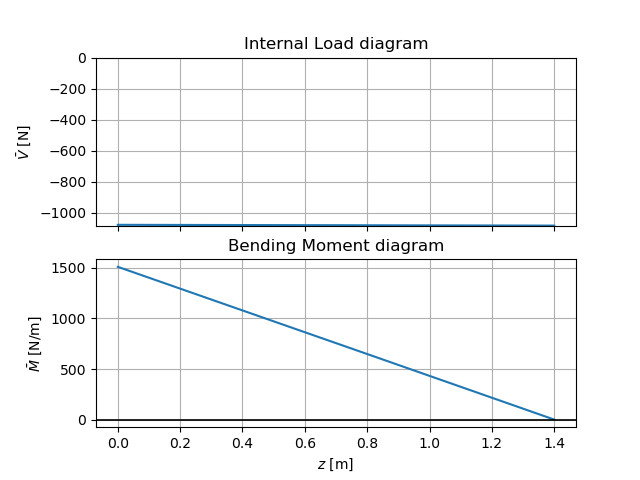
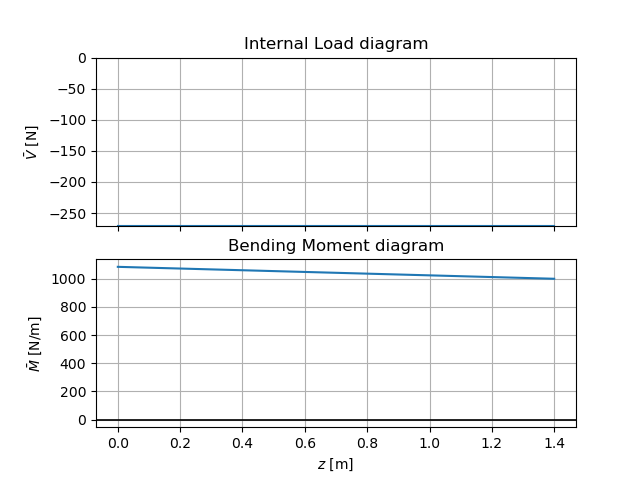
Structures Update

diff --git a/Structures_Final/STRUC_Stiffness.py b/Structures_Final/STRUC_Stiffness.py
@@ -9,14 +9,13 @@ Beam Loading and Stresses (for Ehang concept)
 from math import *
 import numpy as np
 from matplotlib import pyplot as plt
-from STRUC_Classes import Lift, Material
-from STRUC_Design import Beam
 from STRUC_Inputs import *
 
+# Input choices
 use_beam = beam2
 use_material = aluminium
-use_liftcase = Gust
-SF = 1.25
+use_loadcase = Gust
+
 
 def axes(beam):
     dx, dy, dz = 0.005, 0.005, 0.01
@@ -27,38 +26,39 @@ def axes(beam):
 
 
 # Internal Load Function along z-axis
-def v_beam(beam, lift):
-    _, _, z = axes(beam)
-    Vx = beam.weight + beam.weight_engine - lift.L_x / n - beam.weight * z / beam.length
-    return Vx
+def v_beam(beam, load):
+    x, y, z = axes(beam)
+    Vy = beam.weight + beam.weight_engine - load.L / n - beam.weight * z / beam.length
+    Vx = -load.D*np.ones(np.shape(z))
+    return Vx, Vy
 
 
 # Moment Function along z-axis
-def m_beam(beam, lift):
-    x, _, z = axes(beam)
-    M_a = (beam.weight / 2 + beam.weight_engine - lift.L_x / n) * beam.length
-    Mz = (beam.weight + beam.weight_engine - lift.L_x / n) * z - beam.weight * z ** 2 / (2 * beam.length) - M_a
-    return Mz
+def m_beam(beam, load):
+    x, y, z = axes(beam)
+    M_ax = (beam.weight / 2 + beam.weight_engine - load.L / n) * beam.length
+    Mx = (beam.weight + beam.weight_engine - load.L / n) * z - beam.weight * z ** 2 / (2 * beam.length) - M_ax
+    M_ay = beam.length * load.D*beam.radius * 2 * beam.length
+    My = M_ay - M_ay * z/beam.length + load.T
+    return Mx, My
 
 
 # Bending stress along x- and z-axis
-def stress_beam(beam, lift):
-    x, _, z = axes(beam)
-    sigma_x_L_z = lift.L_z / (2 * pi * beam.radius * beam.thickness)
-    sigma_x_bend = np.transpose([(m_beam(beam, lift) / beam.Ixx)]) * [x]
-    sigma_x = np.add(sigma_x_bend, sigma_x_L_z * np.ones(np.shape(sigma_x_bend)))
-    print(sigma_x_L_z)
-    print(sigma_x[0])
-    return sigma_x
+def stress_beam(beam, load):
+    x, y, z = axes(beam)
+    sigma_L_z = load.P / (2 * pi * beam.radius * beam.thickness)
+    sigma_bend_y = np.transpose([(m_beam(beam, load)[1] / beam.Ixx)]) * [x]
+    sigma_bend_x = np.transpose([(m_beam(beam,load)[0]) / beam.Iyy]) * [y]
+    sigma_z_y = np.add(sigma_bend_y, sigma_L_z * np.ones(np.shape(sigma_bend_y)))
+    sigma_z_x = np.add(sigma_bend_x, sigma_L_z * np.ones(np.shape(sigma_bend_x)))
+    return sigma_z_x, sigma_z_y
 
 
-def shear_beam(beam, lift):
-    x, _, z = axes(beam)
-    Vz = v_beam(beam, lift)
-    shear = np.transpose([Vz]) / (-pi * beam.thickness * beam.radius ** 4) * [x]
+def shear_beam(beam, load):
+    x, y, z = axes(beam)
+    Vz = v_beam(beam, load)[0]
+    shear = np.transpose([Vz]) / (-pi * beam.thickness * beam.radius ** 4) * [y]
     return shear
-
-
 
 
 def weight_beam(material, beam):
@@ -70,37 +70,43 @@ print(weight_beam(use_material, use_beam))
 
 x, y, z = axes(use_beam)
 
+V_x, V_y = v_beam(use_beam, use_loadcase)
+M_x, M_y = m_beam(use_beam, use_loadcase)
+sigma_zx, sigma_zy = stress_beam(use_beam, use_loadcase)
+use_V = V_x
+use_M = M_y
+use_sigma_z = sigma_zx
+
 
 # Matplotlib
 fig1, (ax1, ax2) = plt.subplots(2, 1, sharex=True)
 plt.gcf().subplots_adjust(left=0.15)
-ax1.plot(z, v_beam(use_beam, use_liftcase))
-ax1.set_ylim(np.min(v_beam(use_beam, use_liftcase)), 0)
+ax1.plot(z, use_V)
+ax1.set_ylim(np.min(use_V), 0)
 ax1.set_title("Internal Load diagram")
-ax1.set(ylabel = r'$\bar{V}$ [N]')
+ax1.set(ylabel=r'$\bar{V}$ [N]')
 ax1.grid(True)
 ax1.axhline(0, color='black', lw=1.2)
-ax2.plot(z, m_beam(use_beam, use_liftcase))
+ax2.plot(z, use_M)
 ax2.set_title("Bending Moment diagram")
-ax2.set(xlabel = r'$z$ [m]', ylabel = r'$\bar{M}$ [N/m]')
+ax2.set(xlabel=r'$z$ [m]', ylabel=r'$\bar{M}$ [N/m]')
 ax2.grid(True)
 ax2.axhline(0, color='black', lw=1.2)
 fig1.savefig("Loading_diagrams")
 
-
 fig2, (ax3, ax4) = plt.subplots(1, 2, sharey=True)
-ax3.plot(stress_beam(use_beam, use_liftcase)[0], x)
-ax3.plot(np.ones(np.size(x))*use_material.sigma_t, x, '-.r')
-ax3.plot(-np.ones(np.size(x))*use_material.sigma_t, x, '-.r', label='line1')
+ax3.plot(use_sigma_z[0], x)
+ax3.plot(np.ones(np.size(x)) * use_material.sigma_t, x, '-.r')
+ax3.plot(-np.ones(np.size(x)) * use_material.sigma_t, x, '-.r', label='line1')
 ax3.set_title("Bending stress")
-ax3.set(xlabel = r'$\bar{\sigma}_x$ [Pa]', ylabel = "x [m]")
+ax3.set(xlabel=r'$\bar{\sigma}_x$ [Pa]', ylabel="x [m]")
 ax3.grid(True)
 ax3.axhline(0, color='black', lw=1.2)
-ax4.plot(shear_beam(use_beam, use_liftcase)[0], x)
-ax4.plot(np.ones(np.size(x))*use_material.tau/1.25, x, '-.r')
-ax4.plot(-np.ones(np.size(x))*use_material.tau/1.25, x, '-.r')
+ax4.plot(shear_beam(use_beam, use_loadcase)[0], x)
+ax4.plot(np.ones(np.size(x)) * use_material.tau / 1.25, x, '-.r')
+ax4.plot(-np.ones(np.size(x)) * use_material.tau / 1.25, x, '-.r')
 ax4.set_title("Shear stress")
-ax4.set(xlabel = r'$\bar{\tau}$ [Pa]')
+ax4.set(xlabel=r'$\bar{\tau}$ [Pa]')
 ax4.grid(True)
 ax4.axhline(0, color='black', lw=1.2)
 fig2.savefig("Stress_diagrams")

diff --git a/Structures_Final/STRUC_Classes.py b/Structures_Final/STRUC_Classes.py
@@ -3,13 +3,15 @@ Classes
 """
 
 
-class Lift:
+class Load:
+    C_D = 1
+    rho = 1.225
 
-    def __init__(self, L_x, L_y, L_z):
-        self.L_x = L_x
-        self.L_y = L_y
-        self.L_z = L_z
-        self.total = self.L_x + self.L_y + self.L_z
+    def __init__(self, L, gustspeed, P, torque):
+        self.L = L
+        self.D = 0.5*self.C_D*self.rho*gustspeed**2
+        self.P = P
+        self.T = torque
 
 
 class Material:
@@ -20,3 +22,4 @@ class Material:
         self.E_modulus = E_modulus  # Pa
         self.tau = shear_strength  # Pa
         self.density = density  # kg/m**3
+

diff --git a/Structures_Final/STRUC_Inputs.py b/Structures_Final/STRUC_Inputs.py
@@ -1,14 +1,14 @@
 # Imports
-from STRUC_Classes import Lift, Material
+from STRUC_Classes import Load, Material
 from STRUC_Design import Beam
+
+# Values
+SF = 1.25
+
 # Lift assignment
-Vertical_max = Lift(8000, 0, 0)
-Ground = Lift(0, 0, 0)
-Gust1 = Lift(8000, 0, 500)
-Gust2 = Lift(8000, 500, 0)
-Gust3 = Lift(8000, 354, 354)
-Gust4 = Lift(8000, -354, 354)
-Gust5 = Lift(8000, 354, -354)
+Vertical_max = Load(8000, 0, 0, 1000)
+Ground = Load(0, 0, 0, 0)
+Gust = Load(8000, 21, 5000, 1000)
 
 
 

diff --git a/Structures_Final/STRUC_Design.py b/Structures_Final/STRUC_Design.py
@@ -16,7 +16,7 @@ class Beam(VTOL):
         self.weight_engine = weight_engine * 9.81
         self.thickness = thickness
         self.Ixx = thickness * radius ** 3
-
+        self.Iyy = thickness * radius ** 3
 
 
 class Fuselage(VTOL):
